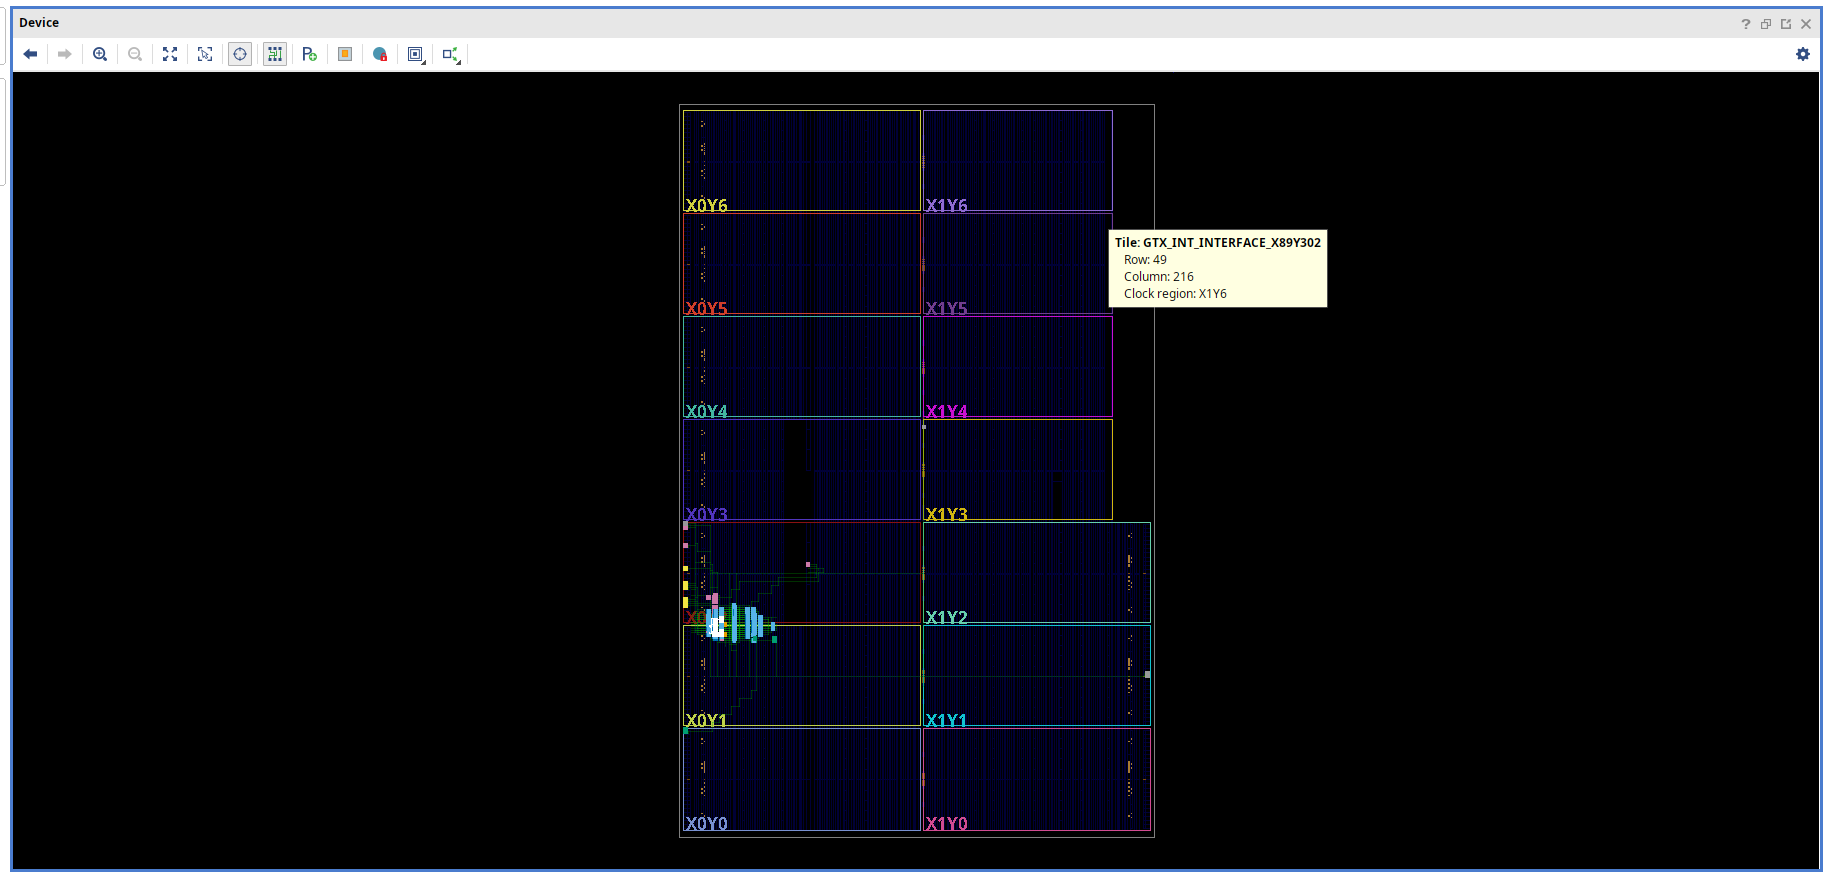
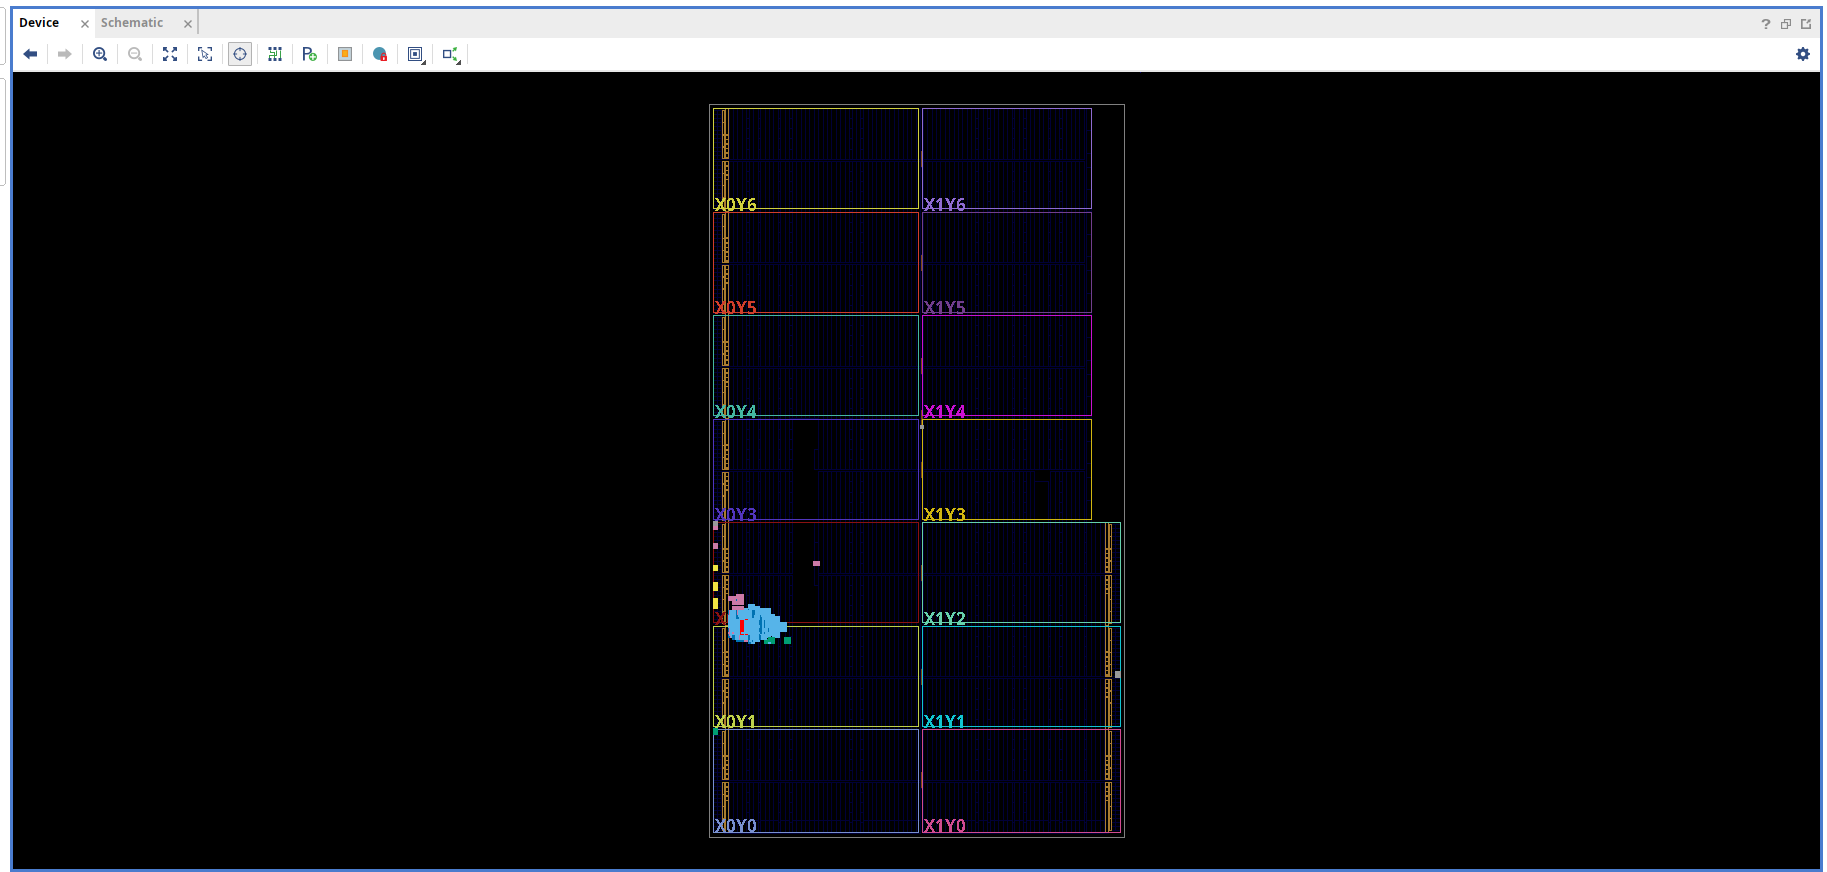
Retaken whole-device panel, without the tooltip
Part of #25. The owner retook panel 1 of the device zoom series,
figures/vivado_device_1_whole.png: the first take kept a mouse tooltip.

The retake differs from panels 2 to 5 in two settings, both read off
the image: Routing Resources is off (its toolbar button is not pressed,
and no nets are drawn), and the worst path is not selected, so its
cells show in the helper's red rather than selection white.

- design.tex: panel (a)'s caption says so, and Figure 10.1's caption
  limits "selected, Routing Resources on" to panels (b) to (d). Table
  2.1 gains the red of the path's cells (\definecolor modpath, 255 0 0,
  as in gui_helper.tcl and the figures README).
- figures README: each panel's settings, and a recipe that takes
  panel 1 unselected with routing off, then reselects the path with
  the helper's own get_timing_paths call for panels 2 to 6.

make -C docs/design builds with no warnings on the final pass; pages 3
and 11 were checked rendered.

Docs only. Last make check, covering the current rtl/, fw/ and sim/:
  build/logs/unit-20261025-184547.log
  build/logs/check-sim-20261025-184547.log
  build/logs/check-synth-20261025-184547.log
make lint PASS: build/logs/lint-20261027-233654.log

Changed region(s): [[0.3744, 0.1239, 0.7488, 0.9599], [0.0624, 0.0, 0.0936, 0.031]]

diff --git a/docs/design/design.tex b/docs/design/design.tex
@@ -36,6 +36,7 @@
 \definecolor{moduart}{RGB}{0,158,115}
 \definecolor{modflash}{RGB}{204,121,167}
 \definecolor{modclock}{RGB}{153,153,153}
+\definecolor{modpath}{RGB}{255,0,0}
 \newcommand{\swatch}[1]{{\setlength{\fboxsep}{0pt}\fcolorbox{gray}{#1}{\rule{0pt}{1.6ex}\rule{1.6em}{0pt}}}}
 
 % Compact chapter headings: about 25 pages of body in 13 chapters.
@@ -79,12 +80,13 @@ schematic~\cite{digilent-genesys2-rm}, the I/O package view, and the tool versio
     \swatch{moduart} & \texttt{UartTx} & \texttt{uart\_rx\_out}, \texttt{uart\_tx\_in} \\
     \swatch{modflash} & \texttt{SPIFlash}, with \texttt{STARTUPE2} & \texttt{spiflash\_*} \\
     \swatch{modclock} & clock and reset & \texttt{sysclk\_*}, \texttt{RESET} \\
-    \swatch{white} & the worst setup path, selected & \\
+    \swatch{modpath} & the worst setup path's cells & \\
+    \swatch{white} & the worst setup path, selected: its cells and wires & \\
     \bottomrule
   \end{tabular}
-  \caption{The module colours of every Vivado view in this report: Okabe-Ito colours, which
-    stay distinct under the common forms of colour blindness. A selected path shows in
-    Vivado's selection white.}
+  \caption{The colours of every Vivado view in this report. The modules' are Okabe-Ito
+    colours, which stay distinct under the common forms of colour blindness; the worst path
+    is in pure red, and in Vivado's selection white while it is selected.}
   \label{tab:module-colours}
 \end{table}
 
@@ -153,8 +155,8 @@ logic-level or slack chart, and the power breakdown.}
   \begin{subfigure}[t]{0.49\textwidth}
     \includegraphics[width=\textwidth]{figures/vivado_device_1_whole}
     \caption{The whole device, its 14 clock regions outlined and named. The design is the
-      coloured patch at the left edge of the lower half. A tooltip names the tile under the
-      mouse pointer.}
+      coloured patch at the left edge of the lower half. Here the path is not selected, so
+      its cells show red, and Routing Resources is off.}
   \end{subfigure}\hfill
   \begin{subfigure}[t]{0.49\textwidth}
     \includegraphics[width=\textwidth]{figures/vivado_device_2_regions}
@@ -173,8 +175,8 @@ logic-level or slack chart, and the power breakdown.}
       RAM.}
   \end{subfigure}
   \caption{Vivado's Device view of the routed design, zoomed in from the whole device to the
-    worst setup path. The modules are in their colours (Table~\ref{tab:module-colours}) and
-    the worst path is selected; Routing Resources is on.}
+    worst setup path, with the modules in their colours (Table~\ref{tab:module-colours}). In
+    panels (b) to (d) the worst path is selected, in white, and Routing Resources is on.}
   \label{fig:device-zoom}
 \end{figure}
 

diff --git a/docs/design/figures/README.md b/docs/design/figures/README.md
@@ -94,24 +94,30 @@ If the Vivado version is not 2025.2, note it in the commit that adds the screens
 - Files: `vivado_device_1_whole.png` to `vivado_device_6_routing_off.png`, chapter 10:
   figure `fig:device-zoom` holds panels 1 to 4, figure `fig:worst-path` panels 5 and 6
 - Vivado 2025.2, checkpoint `build/baseline/post_route.dcp`
-- View: Device window, the worst path selected, Auto-fit Selection on in every panel;
-  Routing Resources on in panels 1 to 5, off in panel 6
+- View: Device window, Auto-fit Selection on in every panel. Panel 1: the path not
+  selected, so its cells show red, and Routing Resources off. Panels 2 to 5: the path
+  selected, in white, and Routing Resources on. Panel 6: the path selected, Routing
+  Resources off.
 - Taken 2026-10-27 by the owner: the maximised Device panel, 1827x872 at screen scale
-  (GNOME on a 1920x1080 display). Panel 1 keeps a tooltip, which names the tile under the
-  mouse pointer.
+  (GNOME on a 1920x1080 display). Panel 1 was retaken later in the day, without the
+  tooltip the first take had.
+
+Take each panel as one screenshot of the maximised panel at screen scale (GNOME: Print, then
+drag over the panel).
 
 1. Common steps 1 to 3.
-2. Maximise the Device window (double-click its tab) and, in its toolbar, turn on Auto-fit
-   Selection and Routing Resources. With Routing Resources on, a net follows its routed wires
-   instead of a straight line.
-3. Leave the path selected: its wires and cells show white against the module colours.
-4. Zoom out all the way, and take each panel as you zoom in, one screenshot of the maximised
-   panel at screen scale each (GNOME: Print, then drag over the panel):
-   1. `vivado_device_1_whole.png`: the whole device.
-   2. `vivado_device_2_regions.png`: the lower clock regions.
-   3. `vivado_device_3_design.png`: the design filling the view.
-   4. `vivado_device_4_path.png`: the area around the path.
-   5. `vivado_device_5_routing_on.png`: the path filling the view, the interconnect tiles'
+2. Maximise the Device window (double-click its tab) and turn on Auto-fit Selection in its
+   toolbar.
+3. Panel 1: type `unselect_objects` in the Tcl Console, leave Routing Resources off, zoom
+   out all the way and take `vivado_device_1_whole.png`, the whole device.
+4. Select the path again, `select_objects [get_timing_paths -setup -max_paths 1 -nworst 1]`,
+   and turn on Routing Resources in the toolbar: a net then follows its routed wires instead
+   of a straight line. The path's wires and cells show white against the module colours.
+   Zoom out to the lower clock regions, then take each panel as you zoom in:
+   1. `vivado_device_2_regions.png`: the lower clock regions.
+   2. `vivado_device_3_design.png`: the design filling the view.
+   3. `vivado_device_4_path.png`: the area around the path.
+   4. `vivado_device_5_routing_on.png`: the path filling the view, the interconnect tiles'
       names showing; zoom out a step if the path touches the border.
 5. Turn Routing Resources off, zoom in a step further, and take
    `vivado_device_6_routing_off.png`: the path's nets drawn as straight lines over the slices.
